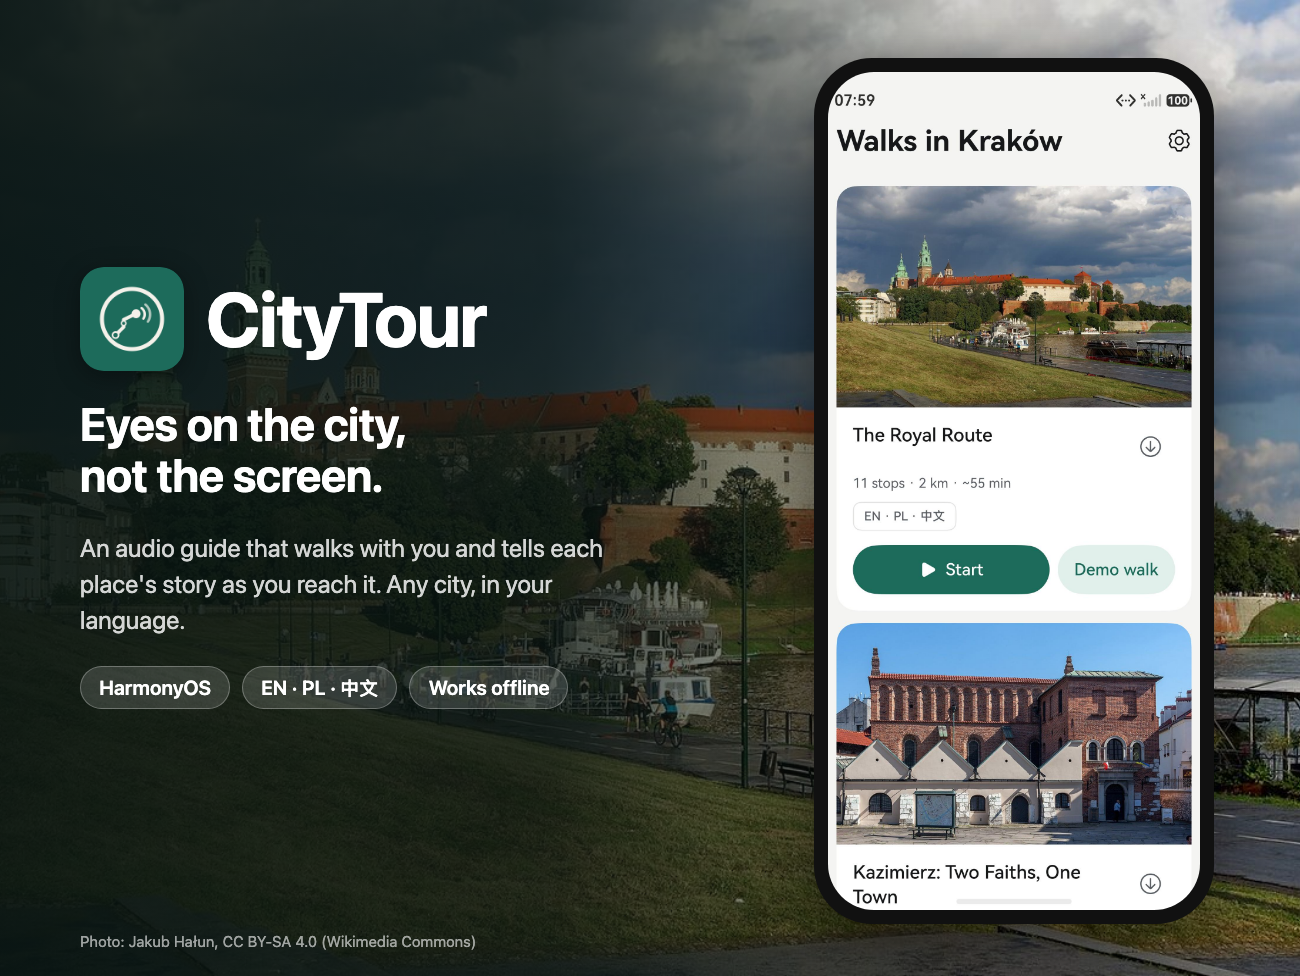
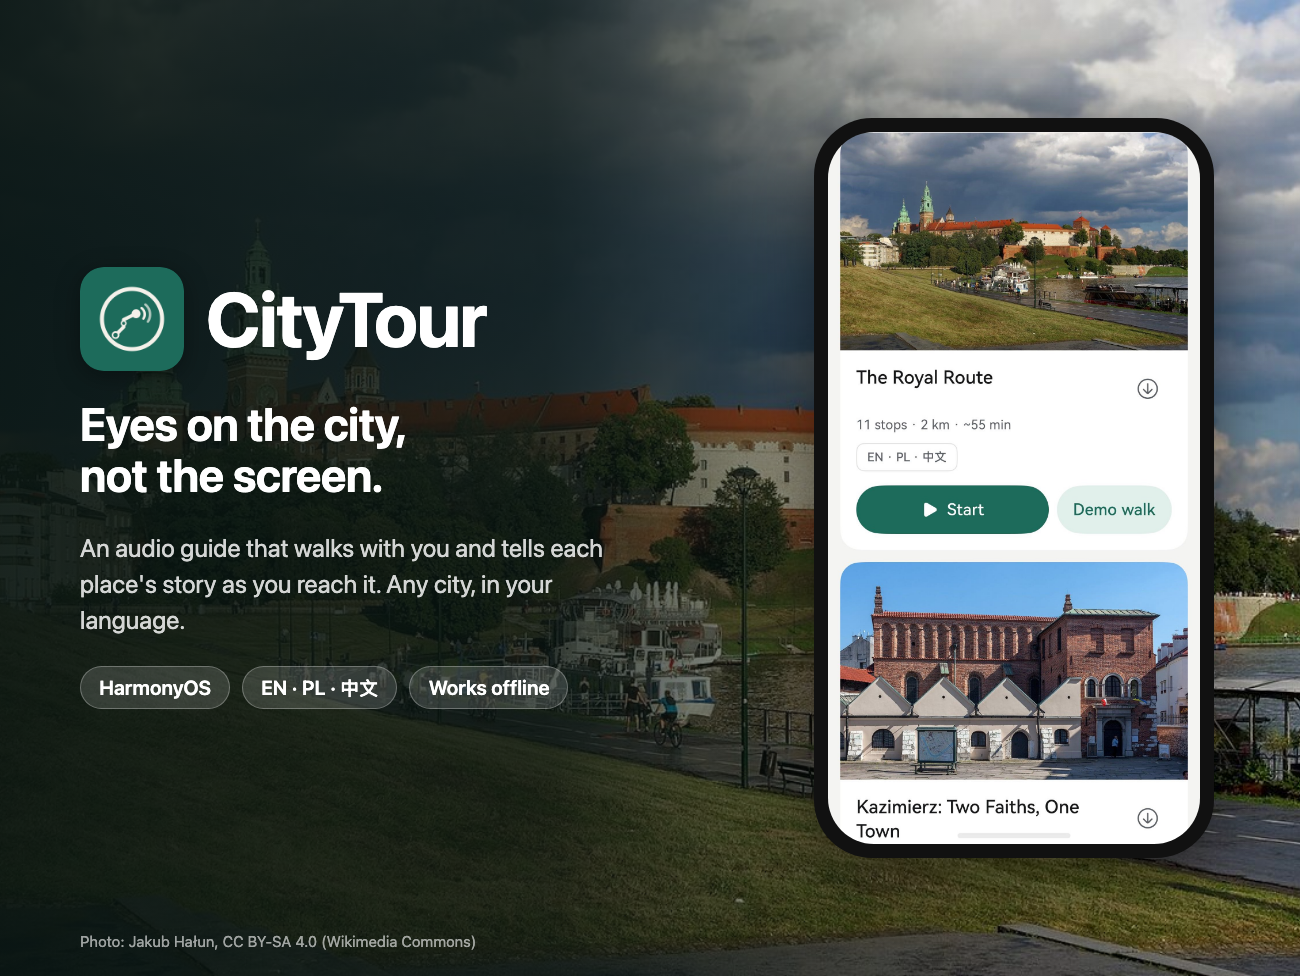
Cover 650:488: no city name (phone shows the walk cards only)

Changed region(s): [[0.6154, 0.0615, 0.9538, 0.9836]]

diff --git a/docs/design/cover/cover-650x488.html b/docs/design/cover/cover-650x488.html
@@ -16,8 +16,8 @@
   .sub{font-size:25px;line-height:1.45;margin:0;color:rgba(255,255,255,.82)}
   .pills{display:flex;gap:12px;flex-wrap:wrap}
   .pill{font-size:20px;font-weight:600;padding:9px 18px;border-radius:999px;background:rgba(255,255,255,.14);border:1px solid rgba(255,255,255,.28)}
-  .phone{position:absolute;right:86px;top:58px;width:400px;height:866px;border-radius:58px;background:#111;padding:14px;box-sizing:border-box;box-shadow:0 24px 70px rgba(0,0,0,.55)}
-  .phone img{width:100%;height:100%;object-fit:cover;object-position:top;border-radius:46px;display:block}
+  .phone{position:absolute;right:86px;top:118px;width:400px;height:740px;border-radius:58px;background:#111;padding:14px;box-sizing:border-box;box-shadow:0 24px 70px rgba(0,0,0,.55)}
+  .phone img{width:100%;height:100%;object-fit:cover;object-position:center top;border-radius:46px;display:block}
   .credit{position:absolute;left:80px;bottom:26px;font-size:15px;color:rgba(255,255,255,.6)}
 </style>
 </head>
@@ -30,7 +30,7 @@
     <p class="sub">An audio guide that walks with you and tells each place's story as you reach it. Any city, in your language.</p>
     <div class="pills"><span class="pill">HarmonyOS</span><span class="pill">EN · PL · 中文</span><span class="pill">Works offline</span></div>
   </div>
-  <div class="phone"><img src="../../img/home-walks.jpg" alt="CityTour home screen with walks in Kraków"></div>
+  <div class="phone"><img src="../../img/home-walks-cards.jpg" alt="CityTour home screen with walk cards"></div>
   <div class="credit">Photo: Jakub Hałun, CC BY-SA 4.0 (Wikimedia Commons)</div>
 </body>
 </html>
